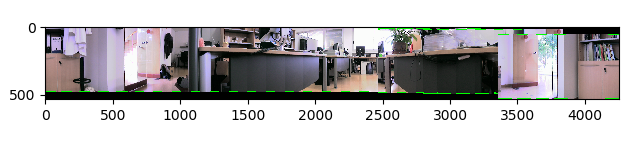
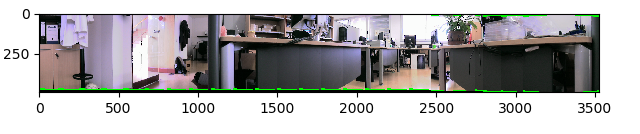
update lab_array result

diff --git a/main.py b/main.py
@@ -5,10 +5,10 @@ from fourier import get_merge_parameters, merge_with_parameters
 
 def get_str_index(i):
     strI = str(i)
-    if i < 10:
-        strI = "0" + strI
-    if i < 100:
-        strI = "0" + strI
+    # if i < 10:
+    #     strI = "0" + strI
+    # if i < 100:
+    #     strI = "0" + strI
     return strI
 
 
@@ -16,25 +16,25 @@ translations = []
 current_translation_x = 0
 current_translation_y = 0
 
-i = 10
+i = 0
 
-result = Image.open('img/IX-01-61737_0029_0' + get_str_index(i) + '.JPG')
+result = Image.open('lab_images/cyl_image' + get_str_index(i) + '.png')
 
-while i > 4:
-    img1 = Image.open('img/IX-01-61737_0029_0' + get_str_index(i) + '.JPG')
-    img2 = Image.open('img/IX-01-61737_0029_0' + get_str_index(i + 1) + '.JPG')
-    translations.append(get_merge_parameters(img1, img2))
+while i < 24:
+    lab_images1 = Image.open('lab_images/cyl_image' + get_str_index(i) + '.png')
+    lab_images2 = Image.open('lab_images/cyl_image' + get_str_index(i + 1) + '.png')
+    translations.append(get_merge_parameters(lab_images1, lab_images2))
     print(i)
-    i -= 1
+    i += 1
 
-i = 9
+i = 1
 index = 0
-while i > 3:
+while i < 25:
     current_translation_x += translations[index][0]
     current_translation_y += translations[index][1]
-    result = merge_with_parameters(result, Image.open('img/IX-01-61737_0029_0' + get_str_index(i) + '.JPG'),
+    result = merge_with_parameters(result, Image.open('lab_images/cyl_image' + get_str_index(i) + '.png'),
                                    (current_translation_x, current_translation_y))
     index += 1
-    i -= 1
+    i += 1
 pyplot.imshow(result)
 pyplot.show()
